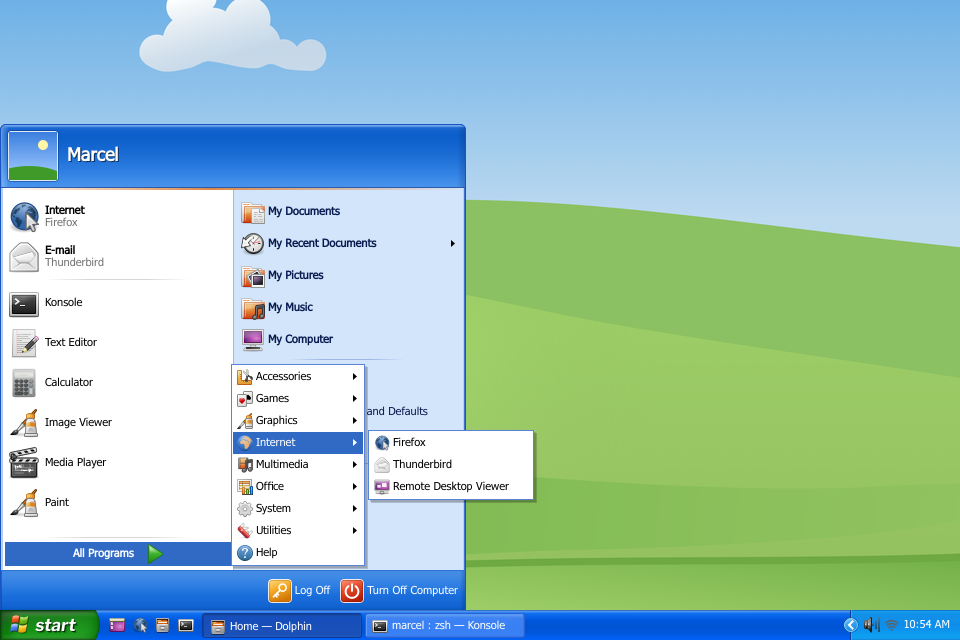
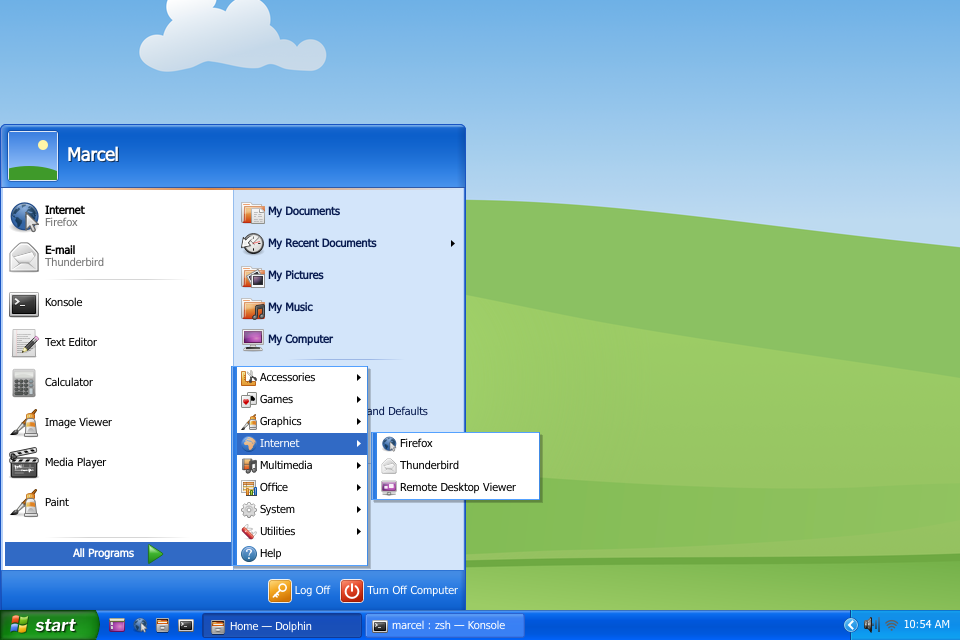
Cascade menus framed like XP's
Sampled from a native XP screenshot: 1 px border (lighter at top and
bottom), a 5 px blue band inside the left border, rows right against the
top and bottom borders, icon 10 px and text 29 px from the left edge.
README screenshots refreshed.

Claude-Session: https://claude.ai/code/session_01PfMQm1A3gEqM17TJU2qVLD

Changed region(s): [[0.2188, 0.5625, 0.5625, 0.875]]

diff --git a/home/.local/share/plasma/plasmoids/com.github.marpogaus.winxpstartmenu/contents/ui/CascadeMenuView.qml b/home/.local/share/plasma/plasmoids/com.github.marpogaus.winxpstartmenu/contents/ui/CascadeMenuView.qml
@@ -27,8 +27,11 @@ Item {
     readonly property alias frameItem: frame
     property int columnWidth: 160
 
-    width: columns * columnWidth + 4 + shadow
-    height: shownRows * rowHeight + 4 + shadow
+    // Frame: left border and band (6 px), rows, right border (1 px); rows
+    // directly below the top border and above the bottom one
+    readonly property int frameLeft: 1 + xp.cascadeBand.length
+    width: frameLeft + columns * columnWidth + 1 + shadow
+    height: 1 + shownRows * rowHeight + 1 + shadow
 
     function computeColumnWidth() {
         let widest = 0;
@@ -44,9 +47,9 @@ Item {
         } else {
             widest = metrics.advanceWidth(emptyLabel.title);
         }
-        // As XP's: the text starts 24 px into the menu (icon at 6 px), and
-        // 25 px follow the longest name (room for the cascade arrow); the
-        // rows sit 2 px inside the frame
+        // As XP's: the text starts 23 px into the row (29 px into the menu,
+        // icon at 10 px) and 23 px follow the longest name (room for the
+        // cascade arrow)
         view.columnWidth = Math.min(Math.max(Math.ceil(widest) + 23 + 23, 130), 380);
     }
 
@@ -126,13 +129,47 @@ Item {
         width: view.width - view.shadow
         height: view.height - view.shadow
         color: view.xp.cascadeBackground
-        border.color: view.xp.cascadeBorder
-        border.width: 1
+
+        Rectangle {
+            width: parent.width
+            height: 1
+            color: view.xp.cascadeBorderLight
+        }
+        Rectangle {
+            y: parent.height - 1
+            width: parent.width
+            height: 1
+            color: view.xp.cascadeBorderLight
+        }
+        Rectangle {
+            width: 1
+            height: parent.height
+            color: view.xp.cascadeBorder
+        }
+        Rectangle {
+            x: parent.width - 1
+            width: 1
+            height: parent.height
+            color: view.xp.cascadeBorder
+        }
+        Row {
+            x: 1
+            y: 1
+            Repeater {
+                model: view.xp.cascadeBand
+                Rectangle {
+                    required property color modelData
+                    width: 1
+                    height: frame.height - 2
+                    color: modelData
+                }
+            }
+        }
 
         GridView {
             id: grid
-            x: 2
-            y: 2
+            x: view.frameLeft
+            y: 1
             width: view.columns * view.columnWidth
             height: view.shownRows * view.rowHeight
             flow: GridView.FlowTopToBottom
@@ -198,8 +235,8 @@ Item {
 
         MenuEntry {
             id: emptyLabel
-            x: 2
-            y: 2
+            x: view.frameLeft
+            y: 1
             width: view.columnWidth
             height: view.rowHeight
             visible: view.itemCount === 0

diff --git a/home/.local/share/plasma/plasmoids/com.github.marpogaus.winxpstartmenu/contents/ui/XpTheme.qml b/home/.local/share/plasma/plasmoids/com.github.marpogaus.winxpstartmenu/contents/ui/XpTheme.qml
@@ -37,7 +37,11 @@ QtObject {
 
     // Cascading (All Programs) menus
     readonly property color cascadeBackground: "#ffffff"
-    readonly property color cascadeBorder: "#5a83d8"
+    // Cascade frame, sampled from XP: 1 px border (lighter at top and
+    // bottom) and a 5 px blue band inside the left border
+    readonly property color cascadeBorder: "#418be5"
+    readonly property color cascadeBorderLight: "#54a1ff"
+    readonly property var cascadeBand: ["#89b4ed", "#2b7ae2", "#2b7ae2", "#307fe4", "#3484e6"]
     readonly property color cascadeSeparator: "#aca899"
     readonly property color disabledText: "#aca899"
     readonly property int cascadeRowHeight: 22

diff --git a/home/.local/share/plasma/plasmoids/com.github.marpogaus.winxpstartmenu/contents/ui/CascadeMenu.qml b/home/.local/share/plasma/plasmoids/com.github.marpogaus.winxpstartmenu/contents/ui/CascadeMenu.qml
@@ -29,8 +29,8 @@ Kicker.SubMenu {
     property Item parentMenu: null
     property bool bottomFirst: false
 
-    // Frame (1 px border + 1 px padding) around the rows
-    readonly property int inset: 2
+    // The rows start right below the frame's 1 px top border
+    readonly property int inset: 1
     readonly property int gap: 3
 
     function placeAt(item, menu, alignBottom) {
